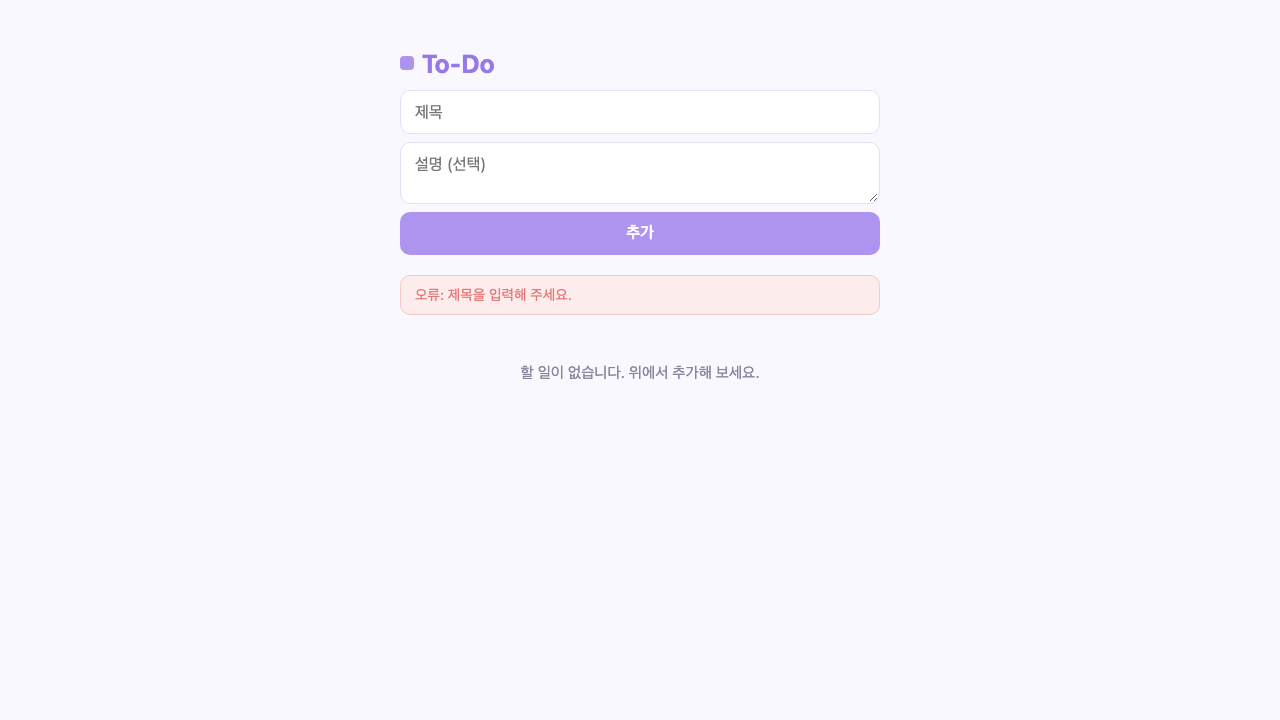
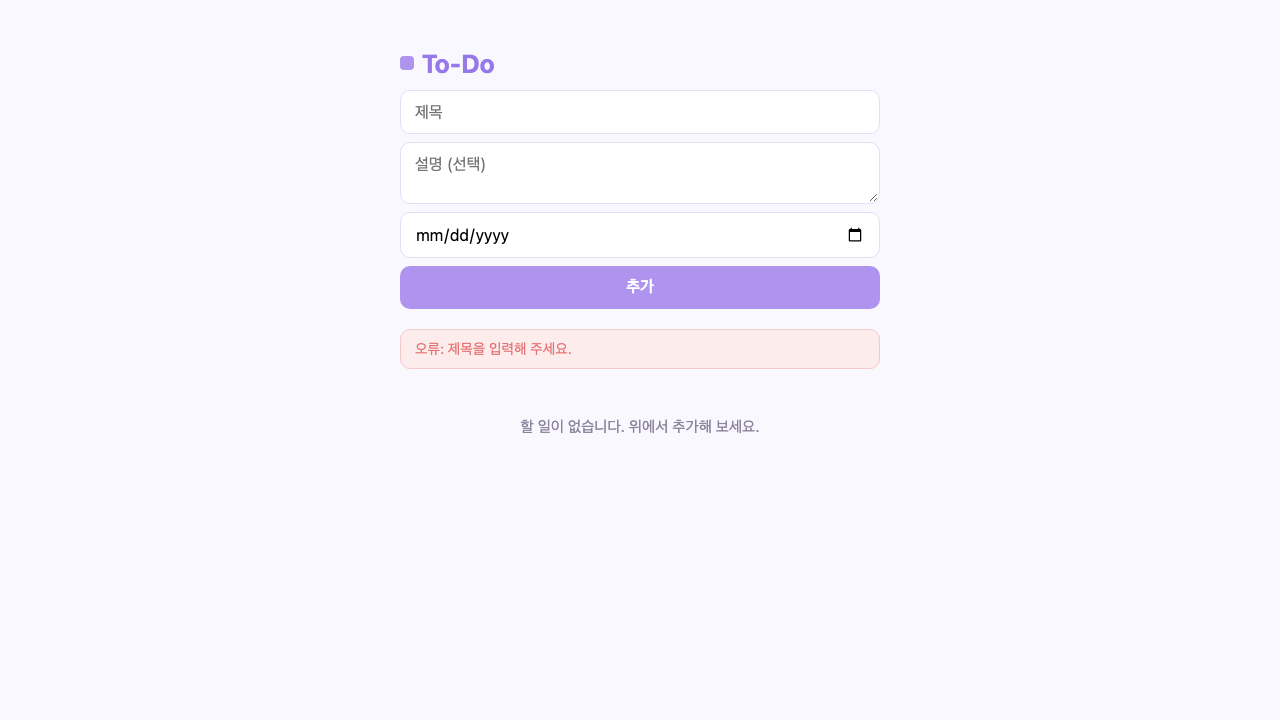
feat: add due dates with overdue highlight, plus tests and UI report screenshots

Changed region(s): [[0.3125, 0.275, 0.6875, 0.55], [0.4062, 0.5806, 0.5938, 0.6111]]

diff --git a/fastapi-app/templates/index.html b/fastapi-app/templates/index.html
@@ -65,7 +65,7 @@
       margin-bottom: 20px;
     }
 
-    input[type="text"], textarea {
+    input[type="text"], input[type="date"], textarea {
       width: 100%;
       padding: 12px 14px;
       border: 1.5px solid #e5def9;
@@ -78,7 +78,7 @@
       resize: vertical;
     }
 
-    input[type="text"]:focus, textarea:focus { border-color: var(--primary); }
+    input[type="text"]:focus, input[type="date"]:focus, textarea:focus { border-color: var(--primary); }
 
     button {
       border: none;
@@ -170,6 +170,16 @@
       word-break: break-all;
     }
 
+    .due {
+      font-size: .8rem;
+      color: var(--muted);
+      margin-top: 3px;
+    }
+    .due.overdue {
+      color: var(--danger);
+      font-weight: 600;
+    }
+
     .title-edit {
       flex: 1;
       padding: 6px 8px;
@@ -212,6 +222,7 @@
     <div class="input-box">
       <input type="text" id="new-title" placeholder="제목" />
       <textarea id="new-desc" placeholder="설명 (선택)" rows="2"></textarea>
+      <input type="date" id="new-due" title="마감일 (선택)" />
       <button class="add-btn" id="add-btn">추가</button>
     </div>
 
@@ -259,6 +270,7 @@
     const listEl = document.getElementById("list");
     const inputEl = document.getElementById("new-title");
     const descEl = document.getElementById("new-desc");
+    const dueEl = document.getElementById("new-due");
     const errorEl = document.getElementById("error");
     const countEl = document.getElementById("count");
 
@@ -268,6 +280,12 @@
     }
     function clearError() {
       errorEl.style.display = "none";
+    }
+
+    function todayISO() {
+      const now = new Date();
+      const pad = (n) => String(n).padStart(2, "0");
+      return `${now.getFullYear()}-${pad(now.getMonth() + 1)}-${pad(now.getDate())}`;
     }
 
     // 서버에서 받아온(order 순 정렬된) 최신 목록
@@ -352,6 +370,7 @@
           description: todo.description,
           done: check.checked,
           order: todo.order,
+          due_date: todo.due_date,
         });
       };
 
@@ -368,6 +387,14 @@
         desc.className = "desc";
         desc.textContent = todo.description;
         content.appendChild(desc);
+      }
+
+      if (todo.due_date) {
+        const due = document.createElement("div");
+        const overdue = !todo.done && todo.due_date < todayISO();
+        due.className = "due" + (overdue ? " overdue" : "");
+        due.textContent = `마감: ${todo.due_date}${overdue ? " (기한 초과)" : ""}`;
+        content.appendChild(due);
       }
 
       const editBtn = document.createElement("button");
@@ -403,7 +430,14 @@
       descInput.value = todo.description || "";
       descInput.style.marginTop = "6px";
 
-      fields.append(titleInput, descInput);
+      const dueInput = document.createElement("input");
+      dueInput.type = "date";
+      dueInput.className = "title-edit";
+      dueInput.title = "마감일 (선택)";
+      dueInput.value = todo.due_date || "";
+      dueInput.style.marginTop = "6px";
+
+      fields.append(titleInput, descInput, dueInput);
 
       const saveBtn = document.createElement("button");
       saveBtn.className = "icon-btn";
@@ -416,6 +450,7 @@
           description: descInput.value.trim(),
           done: todo.done,
           order: todo.order,
+          due_date: dueInput.value || null,
         });
       };
 
@@ -449,11 +484,12 @@
         const res = await fetch(API, {
           method: "POST",
           headers: { "Content-Type": "application/json" },
-          body: JSON.stringify({ title, description, done: false }),
+          body: JSON.stringify({ title, description, done: false, due_date: dueEl.value || null }),
         });
         if (!res.ok) throw new Error(`추가에 실패했습니다 (${res.status})`);
         inputEl.value = "";
         descEl.value = "";
+        dueEl.value = "";
         await loadTodos(); // 추가 후 리스트 다시 불러오기
       } catch (e) {
         showError(e.message);

diff --git a/fastapi-app/tests/test_main.py b/fastapi-app/tests/test_main.py
@@ -1,4 +1,5 @@
 import json
+from datetime import date
 
 import pytest
 from fastapi.testclient import TestClient
@@ -49,8 +50,8 @@ def test_todo_item_requires_id():
 
 
 def test_todo_item_keeps_all_fields():
-    item = TodoItem(id=5, title="T", description="D", done=True, order=3)
-    assert item.model_dump() == {"id": 5, "title": "T", "description": "D", "done": True, "order": 3}
+    item = TodoItem(id=5, title="T", description="D", done=True, order=3, due_date="2026-01-02")
+    assert item.model_dump() == {"id": 5, "title": "T", "description": "D", "done": True, "order": 3, "due_date": date(2026, 1, 2)}
 
 
 # ---------- 상태관리 (JSON 파일 저장/로드) ----------
@@ -267,3 +268,63 @@ def test_repeated_moves_keep_orders_unique():
         client.put("/todos/1/move", params={"direction": "down"})
     orders = [t["order"] for t in load_todos()]
     assert sorted(orders) == [0, 1, 2, 3]
+
+
+# ---------- 마감일 (due_date) ----------
+
+def test_todo_in_due_date_defaults_to_none():
+    assert TodoIn(title="Test").due_date is None
+
+
+def test_todo_in_rejects_invalid_due_date():
+    with pytest.raises(ValidationError):
+        TodoIn(title="Test", due_date="2026-13-45")
+
+
+def test_create_todo_with_due_date_stores_iso_string():
+    response = client.post("/todos", json={"title": "Test", "due_date": "2026-10-10"})
+    assert response.status_code == 201
+    assert response.json()["due_date"] == "2026-10-10"
+    saved = json.loads(main.DATA_FILE.read_text(encoding="utf-8"))
+    assert saved[0]["due_date"] == "2026-10-10"
+
+
+def test_create_todo_without_due_date_is_null():
+    response = client.post("/todos", json={"title": "Test"})
+    assert response.json()["due_date"] is None
+
+
+def test_create_todo_invalid_due_date_returns_422():
+    response = client.post("/todos", json={"title": "Test", "due_date": "not-a-date"})
+    assert response.status_code == 422
+
+
+def test_update_todo_sets_due_date_and_persists():
+    save_todos([make_todo(1, "Test")])
+    response = client.put("/todos/1", json={"title": "Test", "due_date": "2027-01-01"})
+    assert response.status_code == 200
+    assert response.json()["due_date"] == "2027-01-01"
+    assert load_todos()[0]["due_date"] == "2027-01-01"
+
+
+def test_update_todo_clears_due_date_with_null():
+    save_todos([{**make_todo(1, "Test"), "due_date": "2027-01-01"}])
+    response = client.put("/todos/1", json={"title": "Test", "due_date": None})
+    assert response.json()["due_date"] is None
+    assert load_todos()[0]["due_date"] is None
+
+
+def test_legacy_item_without_due_date_reads_as_null():
+    save_todos([make_todo(1, "Old")])
+    response = client.get("/todos")
+    assert response.json()[0]["due_date"] is None
+
+
+def test_move_keeps_due_date():
+    save_todos([
+        {**make_todo(1, "A", order=0), "due_date": "2027-02-02"},
+        make_todo(2, "B", order=1),
+    ])
+    client.put("/todos/2/move", params={"direction": "up"})
+    moved_a = next(t for t in load_todos() if t["id"] == 1)
+    assert moved_a["due_date"] == "2027-02-02"

diff --git a/fastapi-app/ui_tests/test_ui.py b/fastapi-app/ui_tests/test_ui.py
@@ -1,5 +1,6 @@
 import os
 import re
+from datetime import date, timedelta
 from pathlib import Path
 
 import httpx2
@@ -194,3 +195,44 @@ def test_items_persist_after_reload(page: Page):
     page.wait_for_load_state("networkidle")
     expect(row(page, "새로고침 전")).to_be_visible()
     expect(page.locator("#count")).to_have_text("해야 할 일 1개 (총 1개)")
+
+
+# ---------- 마감일 ----------
+
+def add_todo_with_due(page: Page, title: str, due: str):
+    page.fill("#new-title", title)
+    page.fill("#new-due", due)
+    page.click("#add-btn")
+    expect(row(page, title)).to_be_visible()
+
+
+def test_due_date_is_shown_on_row(page: Page):
+    add_todo_with_due(page, "보고서 제출", "2099-12-31")
+    due = row(page, "보고서 제출").locator(".due")
+    expect(due).to_have_text("마감: 2099-12-31")
+    expect(due).not_to_have_class(re.compile(r"\boverdue\b"))
+    snap(page, "09_due_date")
+
+
+def test_overdue_due_date_is_highlighted(page: Page):
+    yesterday = (date.today() - timedelta(days=1)).isoformat()
+    add_todo_with_due(page, "지난 일정", yesterday)
+    due = row(page, "지난 일정").locator(".due")
+    expect(due).to_have_class(re.compile(r"\boverdue\b"))
+    expect(due).to_contain_text("기한 초과")
+    snap(page, "10_overdue")
+
+
+def test_done_item_is_not_marked_overdue(page: Page):
+    yesterday = (date.today() - timedelta(days=1)).isoformat()
+    add_todo_with_due(page, "끝난 일정", yesterday)
+    row(page, "끝난 일정").locator("input[type=checkbox]").check()
+    expect(row(page, "끝난 일정").locator(".due")).not_to_have_class(re.compile(r"\boverdue\b"))
+
+
+def test_edit_due_date_saves(page: Page):
+    add_todo_with_due(page, "수정할 일정", "2099-01-01")
+    row(page, "수정할 일정").get_by_role("button", name="수정").click()
+    page.locator("input[type=date].title-edit").fill("2099-06-30")
+    page.get_by_role("button", name="저장").click()
+    expect(row(page, "수정할 일정").locator(".due")).to_have_text("마감: 2099-06-30")

diff --git a/fastapi-app/main.py b/fastapi-app/main.py
@@ -1,4 +1,5 @@
 import json
+from datetime import date
 from pathlib import Path
 from typing import Literal
 
@@ -20,6 +21,7 @@ class TodoIn(BaseModel):
     description: str = ""
     done: bool = False
     order: int = 0
+    due_date: date | None = None
 
 
 class TodoItem(TodoIn):
@@ -93,7 +95,7 @@ def create_todo(todo: TodoIn):
         order=next_order(todos),
         **todo.model_dump(exclude={"order"}),
     )
-    todos.append(item.model_dump())
+    todos.append(item.model_dump(mode="json"))
     save_todos(todos)
     return item
 
@@ -105,7 +107,7 @@ def update_todo(todo_id: int, todo: TodoIn):
     for i, t in enumerate(todos):
         if t["id"] == todo_id:
             updated = TodoItem(id=todo_id, **todo.model_dump())
-            todos[i] = updated.model_dump()
+            todos[i] = updated.model_dump(mode="json")
             save_todos(todos)
             return updated
     raise HTTPException(status_code=404, detail="해당 id의 항목을 찾을 수 없습니다.")

diff --git a/fastapi-app/ui_report/REPORT.md b/fastapi-app/ui_report/REPORT.md
@@ -1,0 +1,76 @@
+# UI 테스트 보고서 (Playwright)
+
+## 결과 요약
+| 항목 | 값 |
+|---|---|
+| 전체 | 21 |
+| 통과 | 20 |
+| 실패 | 1 |
+
+## 테스트 범위와 결과
+
+| 영역 | 테스트 | 결과 |
+|---|---|---|
+| 화면 | 제목과 빈 상태 메시지 표시 | 통과 |
+| 추가 | 추가 후 목록/카운트 반영, 입력창 초기화 | 통과 |
+| 추가 | Enter 키로 추가 | 통과 |
+| 추가 | 제목 없이 추가 시 오류 메시지 | 통과 |
+| 완료 | 체크 시 취소선과 카운트 갱신 | 통과 |
+| 완료 | 체크 해제 시 완료 상태 제거 | 통과 |
+| 완료 | 체크 시 폭죽 캔버스 생성 | 통과 |
+| 완료 | CDN 차단 시에도 체크 상태 저장 | **실패** |
+| 수정 | 제목 수정 저장 | 통과 |
+| 수정 | Escape로 수정 취소 | 통과 |
+| 수정 | 빈 제목 저장 시 오류 메시지 | 통과 |
+| 우선순위 | 내리기/올리기 버튼으로 순서 변경 | 통과 (2건) |
+| 우선순위 | 맨 위 올리기/맨 아래 내리기 버튼 비활성화 | 통과 |
+| 우선순위 | 순서 변경이 새로고침 후에도 유지 | 통과 |
+| 삭제 | 삭제 후 목록에서 제거 | 통과 |
+| 상태 | 새로고침 후 항목 유지 | 통과 |
+| 마감일 | 마감일 표시 | 통과 |
+| 마감일 | 기한 초과 항목 강조 | 통과 |
+| 마감일 | 완료된 항목은 기한 초과로 표시하지 않음 | 통과 |
+| 마감일 | 마감일 수정 저장 | 통과 |
+
+## 실패 상세: CDN 차단 시 완료 체크가 저장되지 않음
+
+- 재현: `cdn.jsdelivr.net` 요청을 차단한 상태에서 체크박스를 누르고 새로고침하면 체크가 풀린 상태로 돌아갑니다.
+- 원인: 체크 시 `fireConfetti()`를 먼저 호출하는데, CDN 스크립트가 없으면 `confetti is not defined` 예외가 발생합니다. 이 예외로 뒤의 `updateTodo()` 호출이 실행되지 않아 서버에 저장되지 않습니다.
+- 콘솔 확인: `pageerror: confetti is not defined`
+- 영향: CDN 장애나 사내망 차단 환경에서 완료 체크가 조용히 사라집니다. 사용자에게 오류 표시도 없습니다.
+- 권장 수정: `fireConfetti()` 내부에서 `typeof confetti === "function"`을 확인하거나, `updateTodo()`를 폭죽 호출보다 먼저 실행합니다.
+
+## 스크린샷
+
+### 1. 빈 상태
+![빈 상태](screenshots/01_empty_state.png)
+
+### 2. 추가 후
+![추가 후](screenshots/02_after_add.png)
+
+### 3. 제목 누락 오류
+![제목 누락 오류](screenshots/03_validation_error.png)
+
+### 4. 완료 체크
+![완료 체크](screenshots/04_checked.png)
+
+### 5. 폭죽 효과
+![폭죽 효과](screenshots/05_confetti.png)
+
+### 6. 수정 후
+![수정 후](screenshots/06_after_edit.png)
+
+### 7. 우선순위 변경 후
+![우선순위 변경 후](screenshots/07_after_move_down.png)
+
+### 8. 삭제 후
+![삭제 후](screenshots/08_after_delete.png)
+
+### 9. 마감일 표시
+![마감일 표시](screenshots/09_due_date.png)
+
+### 10. 기한 초과 강조
+![기한 초과 강조](screenshots/10_overdue.png)
+
+## 결론
+핵심 CRUD와 우선순위 기능은 UI에서 정상 동작합니다. 외부 CDN에 의존하는 폭죽 코드가 완료 저장을 막는 문제가 확인되었으며, 수정 후 재실행이 필요합니다.
